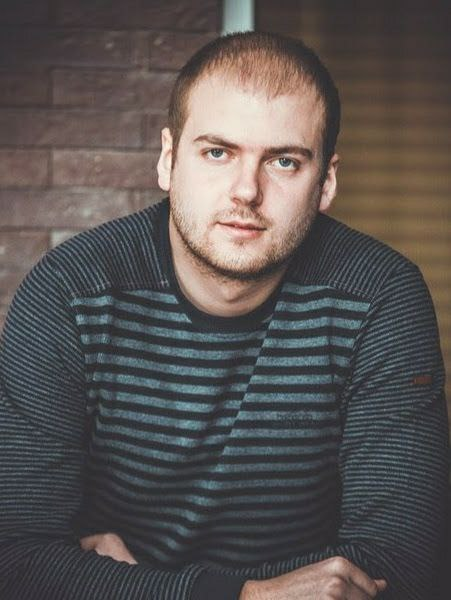
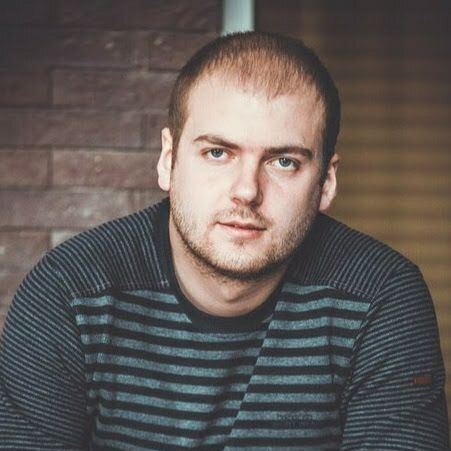
fix: change size photo and fix valid html

diff --git a/index.html b/index.html
@@ -16,7 +16,7 @@
 						<li class="nav-menu__item"><a class="nav-menu__link" href="#education">Education</a></li>
 						<li class="nav-menu__item"><a class="nav-menu__link" href="#about-me">About me</a></li>
 						<li class="nav-menu__item"><a class="nav-menu__link" href="#project">Projects</a></li>
-						<li class="nav-menu__item"><a class="nav-menu__link" href="#code">&lt/ Code</a></li>
+						<li class="nav-menu__item"><a class="nav-menu__link" href="#code">&lt;/ Code</a></li>
 						<li class="nav-menu__item"><a class="nav-menu__link" href="#contact">Contact</a></li>
 					</ul>
 				</nav>
@@ -34,7 +34,7 @@
 					<div class="header-content__img">
 						<ul>
 							<li class="circle-btn circle-btn_pos1"><a href="#">Ds</a></li>
-							<li class="circle-btn circle-btn_pos2"><a href="https://github.com/shaihali">&lt/</a></li>
+							<li class="circle-btn circle-btn_pos2"><a href="https://github.com/shaihali">&lt;/</a></li>
 							<li class="circle-btn circle-btn_pos3"><a href="#">Pr</a></li>
 							<li class="circle-btn circle-btn_pos4"><a href="#">Tm</a></li>
 						</ul>
@@ -80,26 +80,25 @@
 							<h3 class="code__item-title">Calculate BMI</h3>
 							<code class="codewars-code">
 								function bmi(weight, height) {<br><br>
-								let bodyMass = (weight /height**2); if(bodyMass <= 18.5) {<br>
-									&nbsp&nbsp return bodyMass = "Underweight"<br>
-								&nbsp }else if(bodyMass <= 25.0) {<br>
-									&nbsp&nbsp return bodyMass = "Normal"<br>
-								&nbsp }else if(bodyMass >= 25 && bodyMass <= 29.9) {<br>
-									&nbsp&nbsp return bodyMass = "Overweight"<br>
-								&nbsp }else {<br>
-									&nbsp&nbsp return bodyMass = "Obese"<br>
-								&nbsp }<br>
-								&nbsp return bodyMass;<br>
+								let bodyMass = (weight /height**2); if(bodyMass &lt;= 18.5) {<br>
+									&nbsp;&nbsp; return bodyMass = "Underweight"<br>
+								&nbsp; }else if(bodyMass &lt;= 25.0) {<br>
+									&nbsp;&nbsp; return bodyMass = "Normal"<br>
+								&nbsp; }else if(bodyMass >= 25 && bodyMass &lt;= 29.9) {<br>
+									&nbsp;&nbsp; return bodyMass = "Overweight"<br>
+								&nbsp; }else {<br>
+									&nbsp;&nbsp; return bodyMass = "Obese"<br>
+								&nbsp; }<br>
+								&nbsp; return bodyMass;<br>
 									}
-								</pre>
 							</code>
 						</div>
 						<div class="code__item">
 							<h3 class="code__item-title">DNA to RNA Conversion</h3>
 							<code class="codewars-code">
 								function DNAtoRNA(dna) {<br>
-									&nbsplet str = dna.replace(/T/g, "U");<br>
-									&nbsp&nbspreturn str;<br>
+									&nbsp;let str = dna.replace(/T/g, "U");<br>
+									&nbsp;&nbsp; return str;<br>
 								}<br>
 						 		console.log(DNAtoRNA("TGTT"));
 							</code>
@@ -109,9 +108,9 @@
 							<code class="codewars-code">
 								let row = [];<br><br>
 								function toCsvText(array) {<br>
-									&nbspfor(let i = 0; i < array.length; i++) {<br>
-										&nbsp&nbspreturn row = array.join("\n")<br>
-										&nbsp}<br>
+									&nbsp; for(let i = 0; i &lt; array.length; i++) {<br>
+										&nbsp;&nbsp; return row = array.join("\n")<br>
+										&nbsp; }<br>
 								}
 							</code>
 						</div>
@@ -119,7 +118,7 @@
 							<h3 class="code__item-title">For Twins: 2. Math operations</h3>
 							<code class="codewars-code">
 								function iceBrickVolume(radius, bottleLength, rimLength) {<br>
-									&nbspreturn (bottleLength - rimLength) * radius * radius*2<br>
+									&nbsp; return (bottleLength - rimLength) * radius * radius*2<br>
 								}<br>
 								console.log(iceBrickVolume(1, 10, 2))
 							</code>
@@ -177,7 +176,7 @@
 						<li class="nav-menu__item"><a class="nav-menu__link" href="#education">Education</a></li>
 						<li class="nav-menu__item"><a class="nav-menu__link" href="#about-me">About me</a></li>
 						<li class="nav-menu__item"><a class="nav-menu__link" href="#project">Projects</a></li>
-						<li class="nav-menu__item"><a class="nav-menu__link" href="#code">&lt/ Code</a></li>
+						<li class="nav-menu__item"><a class="nav-menu__link" href="#code">&lt;/ Code</a></li>
 						<li class="nav-menu__item"><a class="nav-menu__link" href="#contact">Contact</a></li>
 						</ul>
 					</nav>
